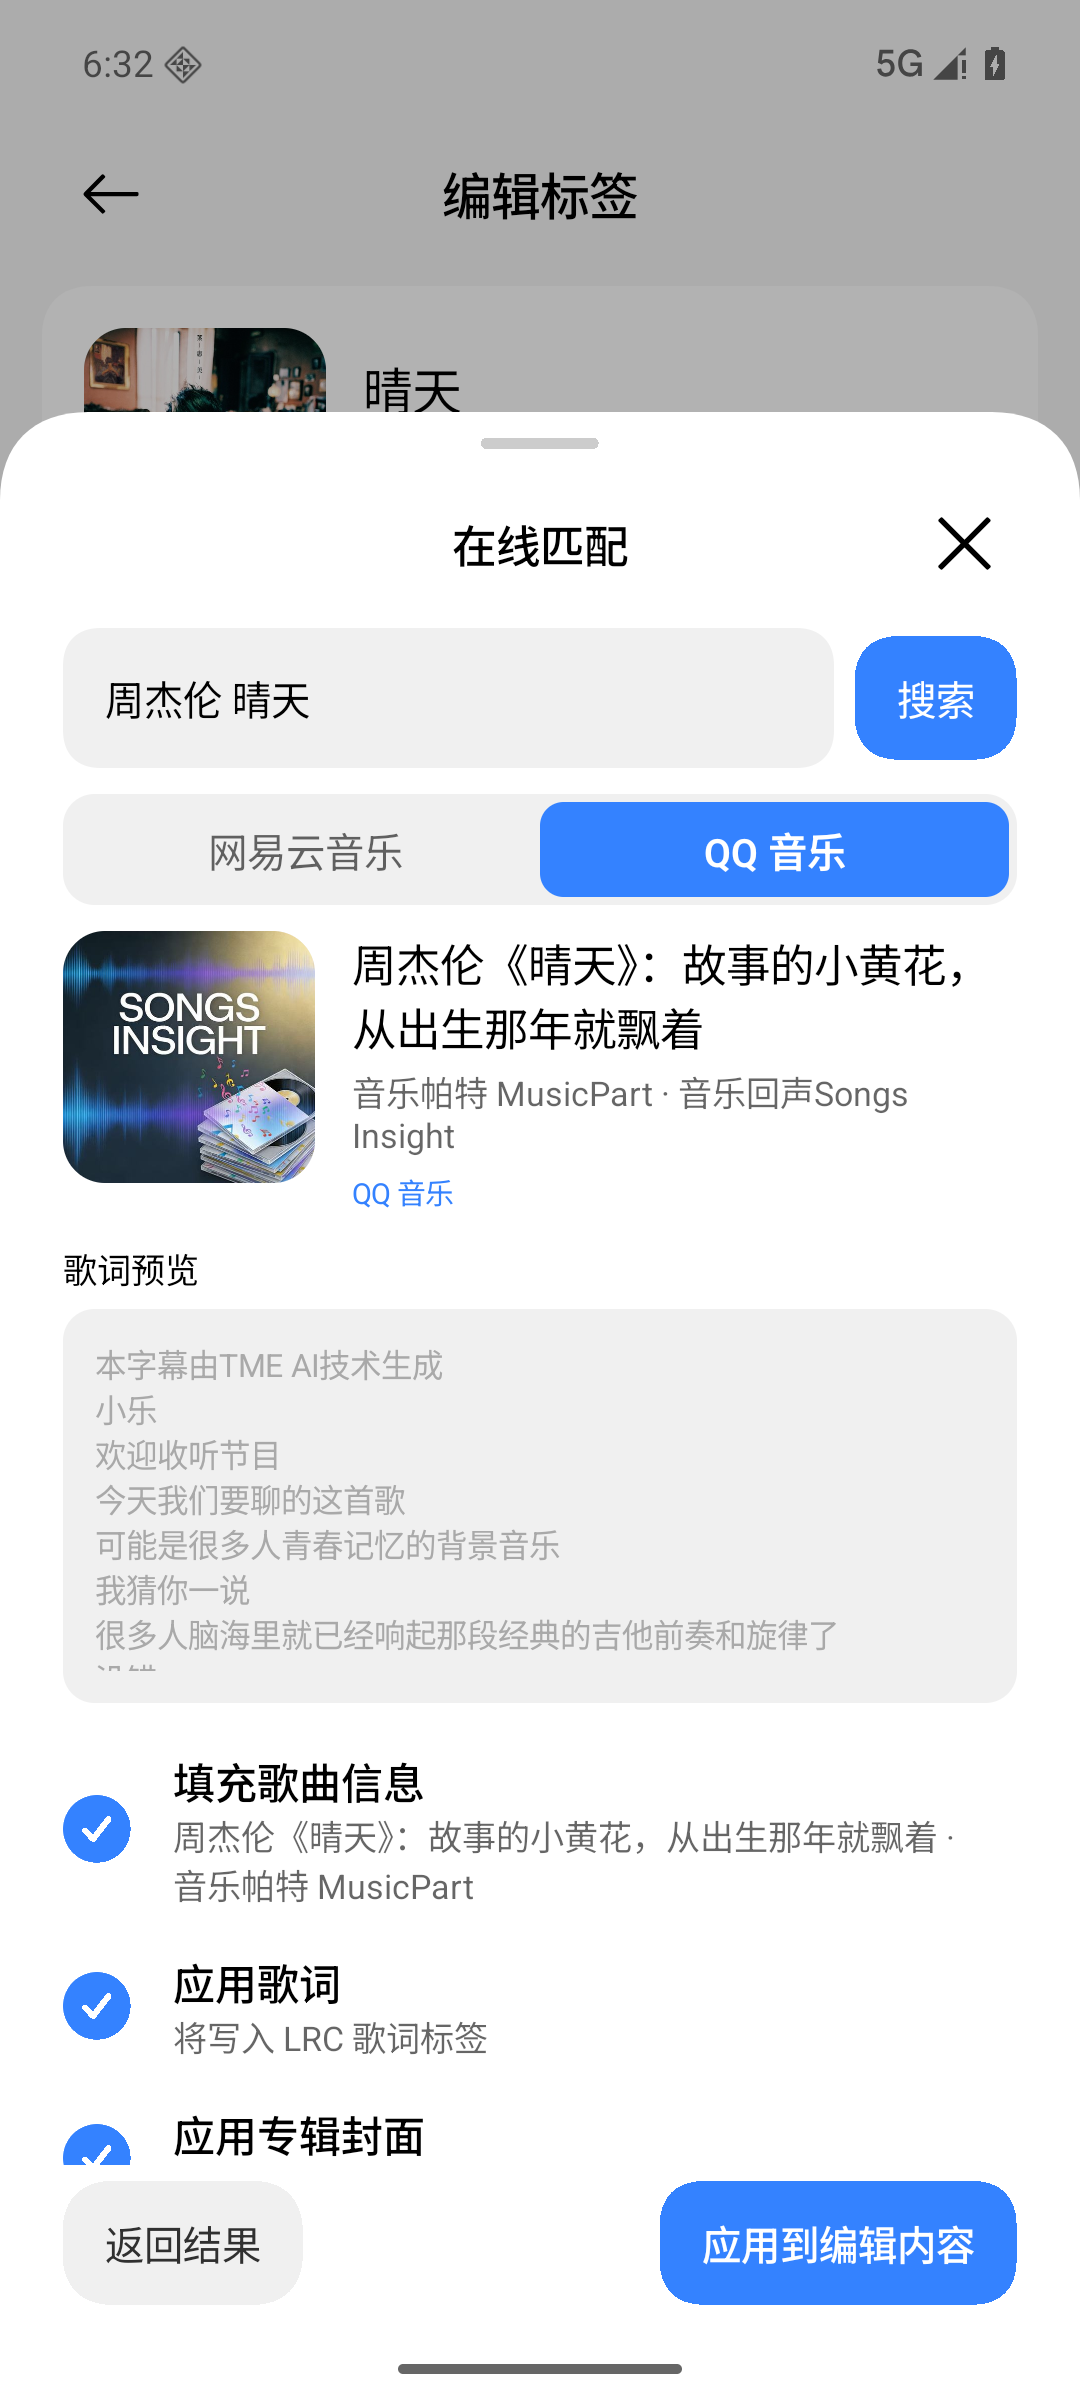
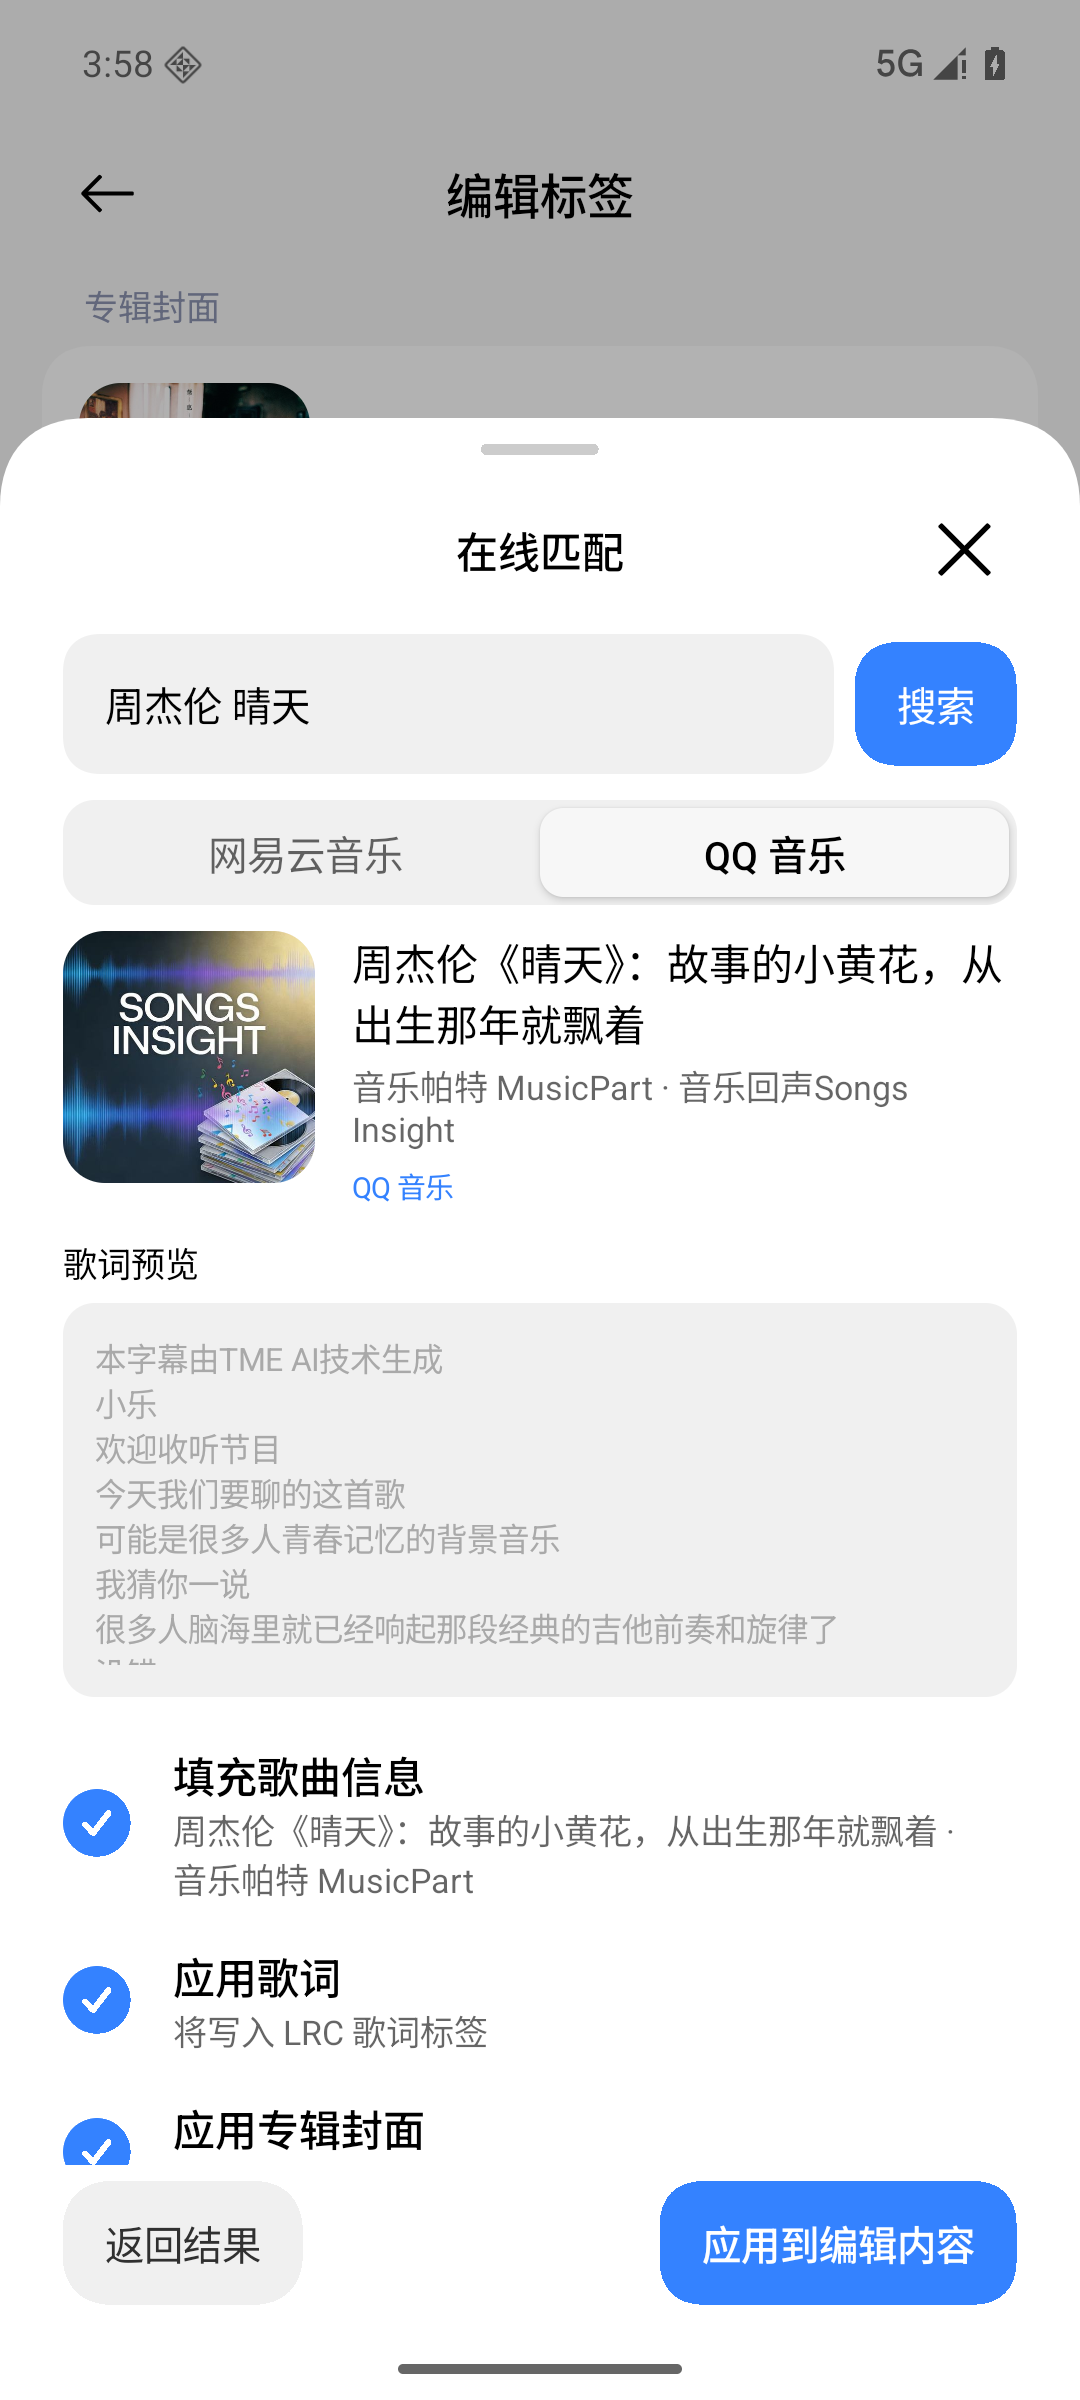
v1.2.1：Tab 栏中性化并加入滑动动画，搜索 FAB 白底黑图标 + 同款阴影
- 分段控件改为灰轨道 + 白色滑块，animateDpAsState 220ms 滑动，去除主色填充
- 歌词搜索 FAB 白底黑图标，shadow(14dp)+shadowElevation 12dp 与保存 FAB 一致
- 版本 1.2.1 / versionCode 4，更新截图与发布说明

diff --git a/app/src/main/java/com/musictag/app/ui/components/Components.kt b/app/src/main/java/com/musictag/app/ui/components/Components.kt
@@ -3,6 +3,8 @@ package com.musictag.app.ui.components
 import android.graphics.Bitmap
 import androidx.annotation.DrawableRes
 import androidx.compose.animation.core.Animatable
+import androidx.compose.animation.core.FastOutSlowInEasing
+import androidx.compose.animation.core.animateDpAsState
 import androidx.compose.animation.core.tween
 import androidx.compose.foundation.Image
 import androidx.compose.foundation.background
@@ -12,6 +14,7 @@ import androidx.compose.foundation.interaction.MutableInteractionSource
 import androidx.compose.foundation.interaction.collectIsFocusedAsState
 import androidx.compose.foundation.layout.Arrangement
 import androidx.compose.foundation.layout.Box
+import androidx.compose.foundation.layout.BoxWithConstraints
 import androidx.compose.foundation.layout.Column
 import androidx.compose.foundation.layout.PaddingValues
 import androidx.compose.foundation.layout.Row
@@ -19,6 +22,7 @@ import androidx.compose.foundation.layout.Spacer
 import androidx.compose.foundation.layout.fillMaxSize
 import androidx.compose.foundation.layout.fillMaxWidth
 import androidx.compose.foundation.layout.height
+import androidx.compose.foundation.layout.offset
 import androidx.compose.foundation.layout.padding
 import androidx.compose.foundation.layout.size
 import androidx.compose.foundation.layout.width
@@ -205,8 +209,9 @@ fun MiuixExtendedFloatingActionButton(
 }
 
 /**
- * Fully rounded MIUI segmented control. The selected segment is filled with the
- * primary color so it stands out clearly from the light gray track.
+ * Neutral MIUI segmented control: gray track with an animated white pill for the
+ * selected segment. No accent color is used, keeping the page's blue reserved
+ * for the actual primary actions.
  */
 @Composable
 fun MiuixSegmentedControl(
@@ -215,33 +220,49 @@ fun MiuixSegmentedControl(
     onSelected: (Int) -> Unit,
     modifier: Modifier = Modifier,
 ) {
+    val pillShape = RoundedCornerShape(9.dp)
     Surface(
         modifier = modifier,
         shape = RoundedCornerShape(12.dp),
         color = MiuixTheme.colorScheme.secondaryContainer,
     ) {
-        Row(modifier = Modifier.padding(3.dp)) {
-            options.forEachIndexed { index, label ->
-                val selected = index == selectedIndex
-                Box(
-                    modifier = Modifier
-                        .weight(1f)
-                        .height(36.dp)
-                        .clip(RoundedCornerShape(9.dp))
-                        .background(if (selected) MiuixTheme.colorScheme.primary else Color.Transparent)
-                        .clickable { onSelected(index) },
-                    contentAlignment = Alignment.Center,
-                ) {
-                    Text(
-                        text = label,
-                        style = MiuixTheme.textStyles.button,
-                        fontWeight = if (selected) FontWeight.SemiBold else FontWeight.Normal,
-                        color = if (selected) {
-                            MiuixTheme.colorScheme.onPrimary
-                        } else {
-                            MiuixTheme.colorScheme.onSurfaceVariantSummary
-                        },
-                    )
+        BoxWithConstraints(modifier = Modifier.fillMaxWidth().padding(3.dp)) {
+            val itemWidth = maxWidth / options.size
+            val animatedOffset by animateDpAsState(
+                targetValue = itemWidth * selectedIndex.coerceIn(0, options.lastIndex),
+                animationSpec = tween(durationMillis = 220, easing = FastOutSlowInEasing),
+                label = "segmentOffset",
+            )
+            Box(
+                modifier = Modifier
+                    .offset(x = animatedOffset)
+                    .width(itemWidth)
+                    .height(34.dp)
+                    .shadow(elevation = 2.dp, shape = pillShape, clip = false)
+                    .clip(pillShape)
+                    .background(MiuixTheme.colorScheme.surface),
+            )
+            Row(modifier = Modifier.fillMaxWidth()) {
+                options.forEachIndexed { index, label ->
+                    val selected = index == selectedIndex
+                    Box(
+                        modifier = Modifier
+                            .weight(1f)
+                            .height(34.dp)
+                            .clickable { onSelected(index) },
+                        contentAlignment = Alignment.Center,
+                    ) {
+                        Text(
+                            text = label,
+                            style = MiuixTheme.textStyles.button,
+                            fontWeight = if (selected) FontWeight.Medium else FontWeight.Normal,
+                            color = if (selected) {
+                                MiuixTheme.colorScheme.onSurface
+                            } else {
+                                MiuixTheme.colorScheme.onSurfaceVariantSummary
+                            },
+                        )
+                    }
                 }
             }
         }

diff --git a/app/src/main/java/com/musictag/app/ui/editor/EditorScreen.kt b/app/src/main/java/com/musictag/app/ui/editor/EditorScreen.kt
@@ -1,4 +1,4 @@
-package com.musictag.app.ui.editor
+package com.musictag.app.ui.editor
 
 import android.graphics.Bitmap
 import android.net.Uri
@@ -35,6 +35,7 @@ import androidx.compose.runtime.setValue
 import androidx.compose.ui.Alignment
 import androidx.compose.ui.Modifier
 import androidx.compose.ui.draw.clip
+import androidx.compose.ui.draw.shadow
 import androidx.compose.ui.text.font.FontWeight
 import androidx.compose.ui.text.style.TextOverflow
 import androidx.compose.ui.unit.dp
@@ -475,17 +476,19 @@ private fun LyricsSearchFab(onClick: () -> Unit) {
     Surface(
         modifier = Modifier
             .size(52.dp)
+            .shadow(elevation = 14.dp, shape = CircleShape, clip = false)
             .clip(CircleShape)
             .clickable(onClick = onClick),
         shape = CircleShape,
-        color = MiuixTheme.colorScheme.secondaryContainer,
-        contentColor = MiuixTheme.colorScheme.onSecondaryContainer,
-        shadowElevation = 10.dp,
+        color = MiuixTheme.colorScheme.surface,
+        contentColor = MiuixTheme.colorScheme.onSurface,
+        shadowElevation = 12.dp,
     ) {
         Box(modifier = Modifier.fillMaxSize(), contentAlignment = Alignment.Center) {
             Icon(
                 imageVector = MiuixIcons.Search,
                 contentDescription = "在线匹配歌词",
+                tint = MiuixTheme.colorScheme.onSurface,
                 modifier = Modifier.size(22.dp),
             )
         }

diff --git a/docs/TEST-REPORT.md b/docs/TEST-REPORT.md
@@ -1,4 +1,4 @@
-# 验证报告 · 音签 MusicTagger（MIUI / HyperOS 版）
+# 验证报告 · 音签 MusicTagger（MIUI / HyperOS 版）
 
 日期：2026-11-07 · 环境：Windows 10.0.26300、JDK 21.0（`D:\Java\jdk-21`）、
 Android SDK API 36 + Platform 37、Gradle 8.14.3、AGP 8.13.0、Kotlin 2.3.20、Compose 1.10.3、
@@ -209,11 +209,20 @@ MIUI UI 专项验证（均为真机/模拟器截图确认）：
   搜索 FAB 位于保存 FAB 左侧（desc=在线匹配歌词，bounds 522–580/2206–2264），无崩溃。
 - 版本 `versionCode 3` / `versionName 1.2.0`。
 
+### 第九轮 v1.2.1（2026-11-14）
+
+- 分段控件彻底去除强调色：灰色轨道 + 白色选中滑块，滑块用 `animateDpAsState` 做 220ms 位移，
+  选中文字为 onSurface，未选中为 onSurfaceVariantSummary；设置页与在线匹配面板同步生效。
+- 歌词 Tab 搜索 FAB 改为白底黑色搜索图标（`surface` / `onSurface`），
+  叠加 `shadow(14dp)` 与 `Surface(shadowElevation = 12dp)`，与保存 FAB 阴影一致。
+- release APK 在 API 36 模拟器安装验证：Tab 切换、搜索 FAB、在线匹配面板正常。
+- 版本 `versionCode 4` / `versionName 1.2.1`。
+
 ## 3. 构建产物
 
 - `app/build/outputs/apk/release/app-release.apk`（约 **1.5 MB**，R8 压缩、资源裁剪，debug 签名）
 - `app/build/outputs/apk/debug/app-debug.apk`（约 11 MB，供开发调试）
-- `dist/MusicTagger-v1.2.0.apk`（交付副本，SHA-256 见 `dist/SHA256.txt`）
+- `dist/MusicTagger-v1.2.1.apk`（交付副本，SHA-256 见 `dist/SHA256.txt`）
 
 ## 4. 复现步骤
 

diff --git a/docs/RELEASE_NOTES-v1.2.1.md b/docs/RELEASE_NOTES-v1.2.1.md
@@ -1,0 +1,34 @@
+# 音签 MusicTagger v1.2.1
+
+细节修复版本：**中性 Tab 栏 + 白色搜索 FAB**。
+
+## 下载
+
+- `MusicTagger-v1.2.1.apk`（R8 压缩 + 资源裁剪，约 **1.5 MB**）
[1 lines of base64/hex data omitted]
+- 系统要求：Android 8.0（API 26）及以上；动态取色需 Android 12+
+
+## 更新内容
+
+- **Tab 栏去除强调色**：分段控件改为灰色轨道 + 白色选中滑块，选中文字为常规深色，
+  不再使用主色填充；滑块在切换 Tab 时带 **220ms 位移动画**（`animateDpAsState`）。
+  设置页数据源、在线匹配面板的数据源切换同步采用该中性样式。
+- **搜索 FAB**：歌词 Tab 下保存 FAB 左侧的圆形搜索按钮改为**白底黑色搜索图标**，
+  并使用与保存 FAB 相同的 `shadow(14dp)` + `Surface(shadowElevation = 12dp)` 阴影。
+- 其他布局与功能不变。
+
+## 验证
+
+- debug / release 均构建通过；release APK 在 API 36 模拟器安装，
+  三个 Tab、搜索 FAB、在线匹配面板显示正常，无崩溃。
+- 154 个 `:core` 单元测试保持通过。
+
+## 已知限制
+
+- Spotify 源仍未接入：官方 Web API 需 OAuth 且无歌词接口，匿名 token 接口被 403 拒绝。
+- 在线接口为非官方公开接口，可能随服务端调整失效。
+- release 目前使用 debug 签名，便于直接安装。
+
+## 开源
+
+Apache License 2.0。项目地址：<https://github.com/Kastorice/MusicTagger>
